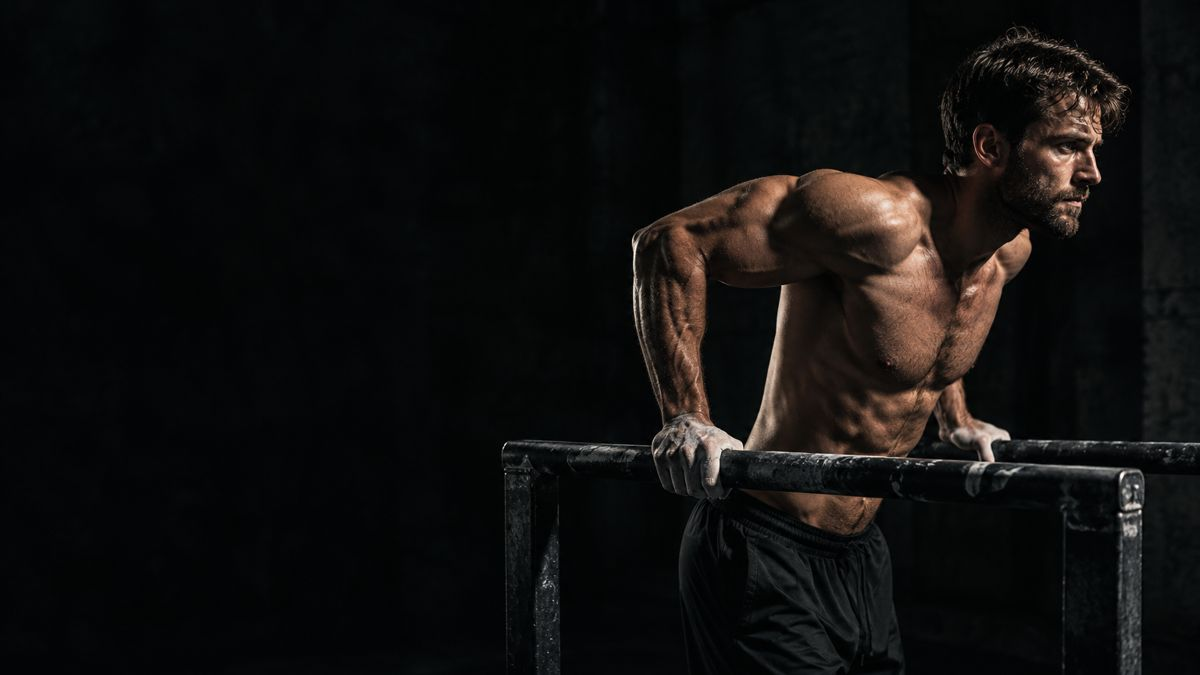
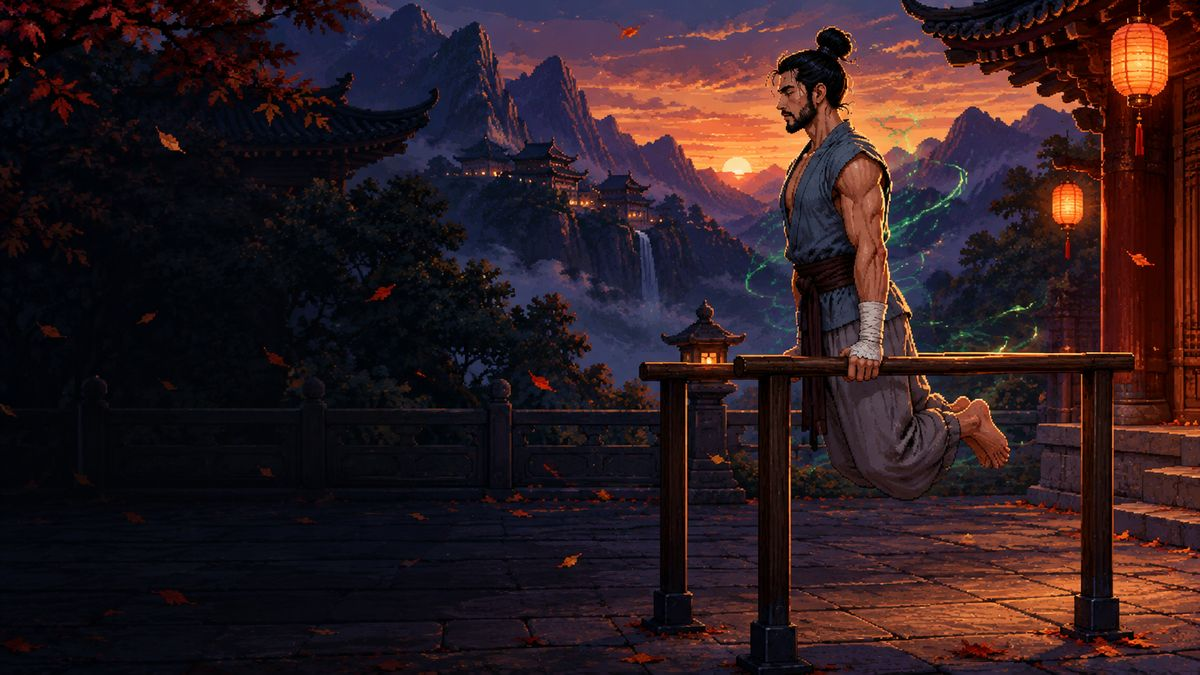
Artes dos Mestres: cards de treino e login em pixel art
Troca as fotos genéricas dos 17 cards e do login pelas artes dos Mestres
e adiciona os cards de corrida (corrida-1, corrida-2) e híbrido (hibrido-1),
agora usados nos treinos de corrida, tiros e híbridos.

Claude-Session: https://claude.ai/code/session_01YKWXpuKtv2GUCNRysgxXKT

diff --git a/public/app.js b/public/app.js
@@ -63,7 +63,7 @@
   const C = (n) => `cards/${n}.jpg`;
   const varia = (lista, chave) => { let h = 0; for (const ch of String(chave)) h = (h * 31 + ch.charCodeAt(0)) >>> 0; return lista[h % lista.length]; };
   const IMG = { Empurrar: ["calistenia-paralelas"], Superior: ["calistenia-paralelas", "calistenia-barra"], Puxar: ["calistenia-barra"], Pernas: ["forca-1", "potencia-1"],
-    Perna: ["forca-1", "potencia-1"], Inferior: ["forca-1", "potencia-1"], Core: ["core-1", "core-2"], Tiro: ["cardio-2", "cardio-1"] };
+    Perna: ["forca-1", "potencia-1"], Inferior: ["forca-1", "potencia-1"], Core: ["core-1", "core-2"], Tiro: ["corrida-2", "corrida-1"] };
   const imgDe = (t) => A(C(varia(IMG[t.foco] || ["forca-1", "calistenia-barra", "core-2"], t.titulo)));
   const TODOS_EX = [...new Map(PROGRAMA.flatMap((s) => s.dias).concat([EMERGENCIA]).flatMap((d) => d.ex || []).reverse().map((e) => [e.id, e])).values()].reverse();
   const EXI = Object.fromEntries(TODOS_EX.map((e) => [e.id, e]));
@@ -925,7 +925,7 @@
   if (RUNC.length) {
     const ids = new Set([...RUNC, ...CAL21].map((e) => e.id));
     IA.run = {
-      k: "run", nome: "Corrida e Híbrido", rotulo: "Corrida", cat: [...RUNC, ...CAL21, ...ACAD.filter((e) => !ids.has(e.id))], banner: "cards/cardio-1.jpg", semanas: 0, carga: true,
+      k: "run", nome: "Corrida e Híbrido", rotulo: "Corrida", cat: [...RUNC, ...CAL21, ...ACAD.filter((e) => !ids.has(e.id))], banner: "cards/corrida-1.jpg", semanas: 0, carga: true,
       cargaEx: (c) => ["barra", "halter", "maquina", "polia"].includes(c?.equip),
       convite: "Corrida ou treino híbrido feito para você", resumoConvite: "O Coach AI faz {n} perguntas (nível, objetivo, prova, dias, onde treina força…) e monta a sua semana misturando corrida (rodagem, tiros, longão) com força na academia ou com o peso do corpo. Você anota os minutos de cada corrida e o tempo de cada tiro, e manda o print do Strava ou do relógio para virar XP.",
       intro: "Bora montar sua corrida", oQue: "sua semana de corrida e força, no seu nível",
@@ -1049,7 +1049,8 @@
   }
   const iaSessFeita = (pk, t) => Object.entries(S[pk].logs).some(([k, l]) => l.done && l.d === t.dia && (t.semana != null ? (l.w ?? 0) === t.semana : k >= keyOf(mondayOf(hoje))));
   const IA_IMG = { // [academia, calistenia/corrida]
-    corrida: [/corr|run\b|tiro|long[aã]o|rodagem|fartlek|\d\s?km|h[ií]brid|hyrox/i, ["cardio-1", "cardio-2"], ["cardio-2", "cardio-1"]],
+    hibrido: [/h[ií]brid|hyrox/i, ["hibrido-1"], ["hibrido-1"]],
+    corrida: [/corr|run\b|tiro|long[aã]o|rodagem|fartlek|\d\s?km/i, ["corrida-1", "corrida-2"], ["corrida-2", "corrida-1"]],
     costas: [/costa|puxar|pull|barra|remada/i, ["academia-costas"], ["calistenia-barra"]], pernas: [/perna|inferior|gl[uú]te|lower|leg|agach/i, ["academia-pernas"], ["forca-1", "potencia-1"]],
     core: [/abd|core/i, ["core-1", "core-2"], ["core-2", "core-1"]], bracos: [/bra[çc]|b[ií]ceps|tr[ií]ceps/i, ["academia-bracos"], ["calistenia-paralelas"]],
     peito: [/peito|ombro|superior|push|upper|empurr|flex/i, ["academia-peito"], ["calistenia-paralelas"]], cardio: [/cardio|corpo|full|circuito|hiit/i, ["cross-1", "cardio-1"], ["potencia-2", "cardio-2"]] };
